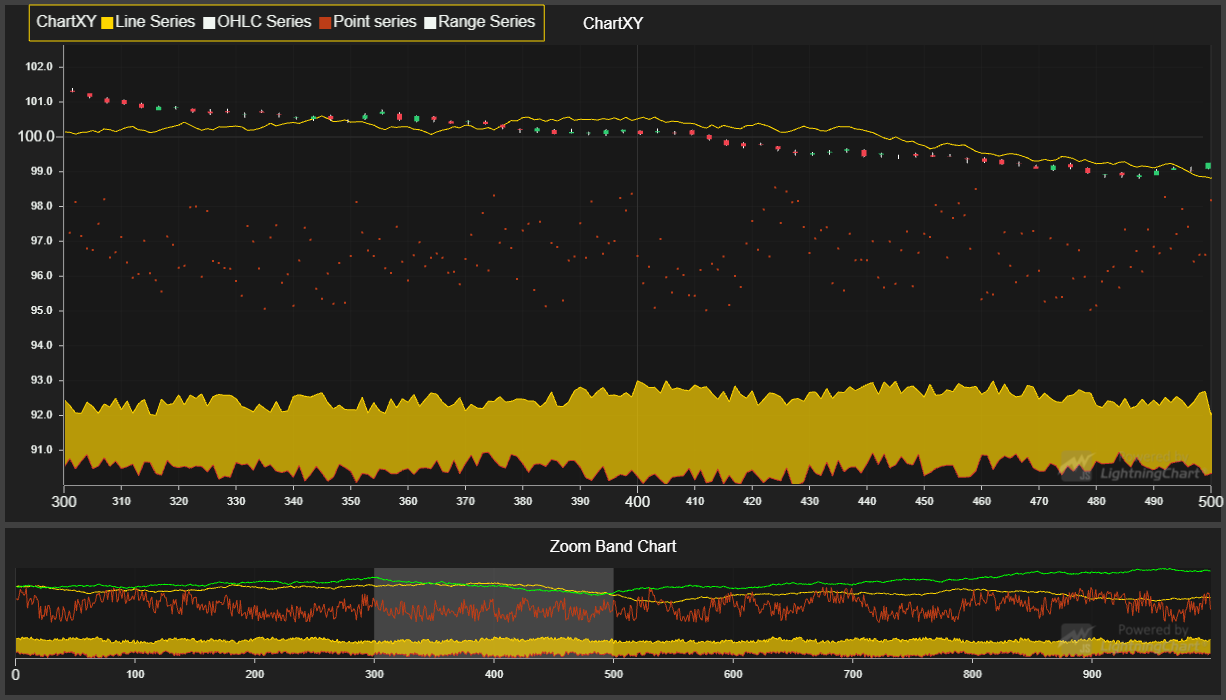
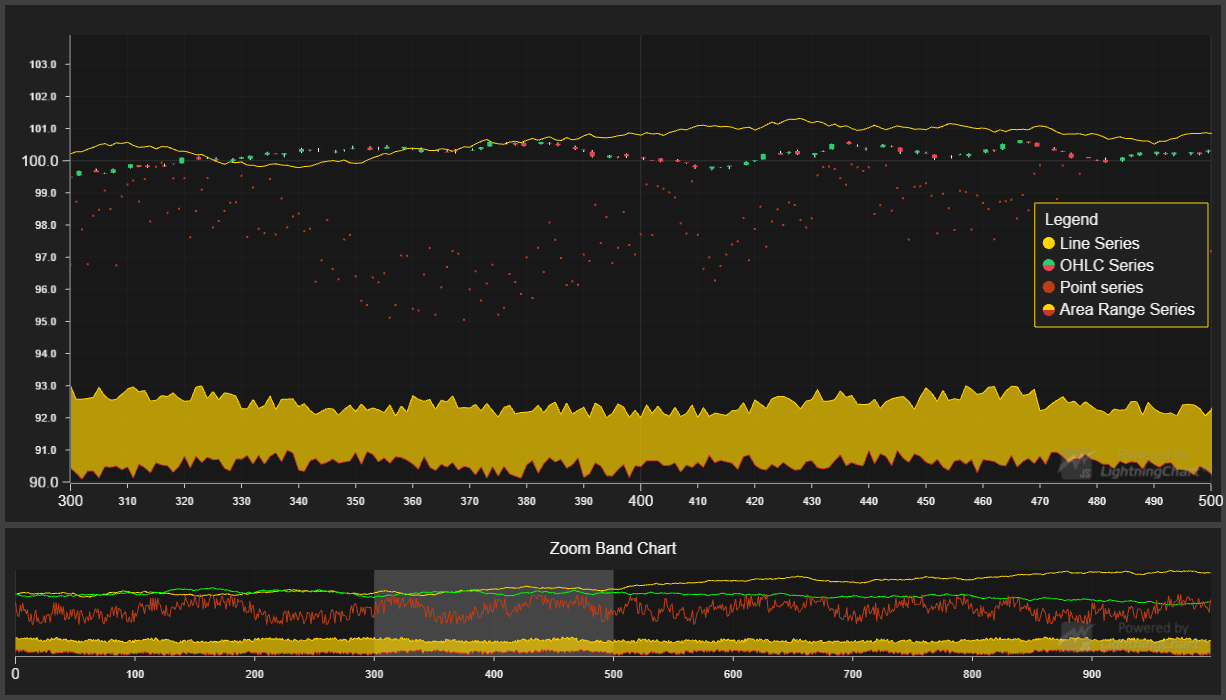
LCJS 3.0.0

diff --git a/src/index.js b/src/index.js
@@ -42,6 +42,7 @@ const chart = dashboard.createChartXY({
     rowIndex: 0,
     rowSpan: 1
 })
+    .setTitle('')
 
 // Add Zoom Band Chart to bottom Cell in Dashboard.
 const zoomBandChart = dashboard.createZoomBandChart({
@@ -138,6 +139,4 @@ Promise.all([
 // Add LegendBox to the XY Chart. Note that hiding a Series in XY Chart will also
 // hide corresponding Series in the Zoom Band Chart.
 chart.addLegendBox(LegendBoxBuilders.VerticalLegendBox)
-    .setPosition({ x: 2, y: 100 })
-    .setOrigin(UIOrigins.LeftTop)
     .add(chart)

diff --git a/README.md b/README.md
@@ -98,14 +98,14 @@ Direct developer email support can be purchased through a [Support Plan][4] or b
 © Arction Ltd 2009-2020. All rights reserved.
 
 
-[Zoom Band Chart]: https://www.arction.com/lightningchart-js-api-documentation/v2.2.0/classes/zoombandchart.html
-[XY cartesian chart]: https://www.arction.com/lightningchart-js-api-documentation/v2.2.0/classes/chartxy.html
-[Axis]: https://www.arction.com/lightningchart-js-api-documentation/v2.2.0/classes/axis.html
-[Axis tick strategies]: https://www.arction.com/lightningchart-js-api-documentation/v2.2.0/globals.html#axistickstrategies
-[Horizontal legend box]: https://www.arction.com/lightningchart-js-api-documentation/v2.2.0/globals.html#legendboxbuilders.horizontallegendbox
-[Vertical legend box]: https://www.arction.com/lightningchart-js-api-documentation/v2.2.0/globals.html#legendboxbuilders.verticallegendbox
-[UI position origins]: https://www.arction.com/lightningchart-js-api-documentation/v2.2.0/globals.html#uiorigins
-[Solid FillStyle]: https://www.arction.com/lightningchart-js-api-documentation/v2.2.0/classes/solidfill.html
-[RGBA color factory]: https://www.arction.com/lightningchart-js-api-documentation/v2.2.0/globals.html#colorrgba
-[Solid LineStyle]: https://www.arction.com/lightningchart-js-api-documentation/v2.2.0/classes/solidline.html
+[Zoom Band Chart]: https://www.arction.com/lightningchart-js-api-documentation/v3.0.0/classes/zoombandchart.html
+[XY cartesian chart]: https://www.arction.com/lightningchart-js-api-documentation/v3.0.0/classes/chartxy.html
+[Axis]: https://www.arction.com/lightningchart-js-api-documentation/v3.0.0/classes/axis.html
+[Axis tick strategies]: https://www.arction.com/lightningchart-js-api-documentation/v3.0.0/globals.html#axistickstrategies
+[Horizontal legend box]: https://www.arction.com/lightningchart-js-api-documentation/v3.0.0/globals.html#legendboxbuilders.horizontallegendbox
+[Vertical legend box]: https://www.arction.com/lightningchart-js-api-documentation/v3.0.0/globals.html#legendboxbuilders.verticallegendbox
+[UI position origins]: https://www.arction.com/lightningchart-js-api-documentation/v3.0.0/globals.html#uiorigins
+[Solid FillStyle]: https://www.arction.com/lightningchart-js-api-documentation/v3.0.0/classes/solidfill.html
+[RGBA color factory]: https://www.arction.com/lightningchart-js-api-documentation/v3.0.0/globals.html#colorrgba
+[Solid LineStyle]: https://www.arction.com/lightningchart-js-api-documentation/v3.0.0/classes/solidline.html
 
